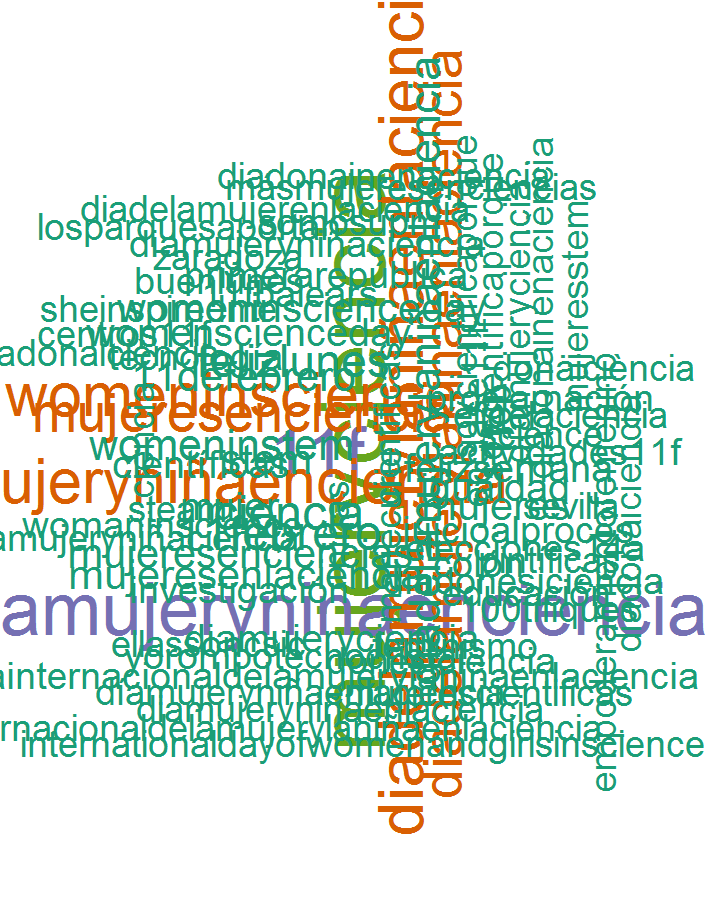
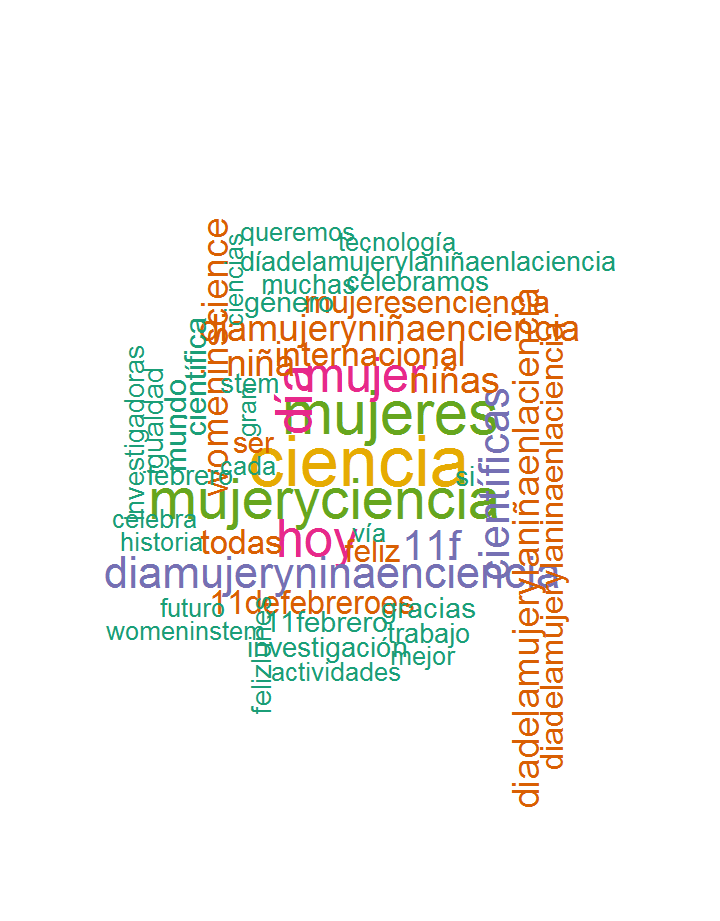
update

diff --git a/index.html b/index.html
@@ -828,6 +828,7 @@ body {
 <img class="mobile-figure" data-mobile-figure-id=fig4 src="index_files/figure-html/unnamed-chunk-1-1.mb.png" />
 <img class="mobile-figure" data-mobile-figure-id=fig5 src="index_files/figure-html/unnamed-chunk-2-1.mb.png" />
 <img class="mobile-figure" data-mobile-figure-id=fig6 src="index_files/figure-html/unnamed-chunk-3-1.mb.png" />
+<img class="mobile-figure" data-mobile-figure-id=fig7 src="index_files/figure-html/unnamed-chunk-4-1.mb.png" />
 <script type="text/javascript">
 
 
@@ -2640,8 +2641,8 @@ window.FlexDashboardComponents.push({
 <div class="knitr-options" data-fig-width="576" data-fig-height="460">
 
 </div>
-<div id="htmlwidget-e8a2676f10c54c699506" style="width:100%;height:460.8px;" class="plotly html-widget"></div>
-<script type="application/json" data-for="htmlwidget-e8a2676f10c54c699506">{"x":{"data":[{"x":[1549033200,1549036800,1549040400,1549044000,1549047600,1549051200,1549054800,1549058400,1549062000,1549065600,1549069200,1549072800,1549076400,1549080000,1549083600,1549087200,1549090800,1549094400,1549098000,1549101600,1549105200,1549108800,1549112400,1549116000,1549119600,1549123200,1549126800,1549130400,1549134000,1549137600,1549141200,1549144800,1549148400,1549152000,1549155600,1549159200,1549162800,1549166400,1549170000,1549173600,1549177200,1549180800,1549184400,1549188000,1549191600,1549195200,1549198800,1549202400,1549206000,1549209600,1549213200,1549216800,1549220400,1549224000,1549227600,1549231200,1549234800,1549238400,1549242000,1549245600,1549249200,1549252800,1549256400,1549260000,1549263600,1549267200,1549270800,1549274400,1549278000,1549281600,1549285200,1549288800,1549292400,1549296000,1549299600,1549303200,1549306800,1549310400,1549314000,1549317600,1549321200,1549324800,1549328400,1549332000,1549335600,1549339200,1549342800,1549346400,1549350000,1549353600,1549357200,1549360800,1549364400,1549368000,1549371600,1549375200,1549378800,1549382400,1549386000,1549389600,1549393200,1549396800,1549400400,1549404000,1549407600,1549411200,1549414800,1549418400,1549422000,1549425600,1549429200,1549432800,1549436400,1549440000,1549443600,1549447200,1549450800,1549454400,1549458000,1549461600,1549465200,1549468800,1549472400,1549476000,1549479600,1549483200,1549486800,1549490400,1549494000,1549497600,1549501200,1549504800,1549508400,1549512000,1549515600,1549519200,1549522800,1549526400,1549530000,1549533600,1549537200,1549540800,1549544400,1549548000,1549551600,1549555200,1549558800,1549562400,1549566000,1549569600,1549573200,1549576800,1549580400,1549584000,1549587600,1549591200,1549594800,1549598400,1549602000,1549605600,1549609200,1549612800,1549616400,1549620000,1549623600,1549627200,1549630800,1549634400,1549638000,1549641600,1549645200,1549648800,1549652400,1549656000,1549659600,1549663200,1549666800,1549670400,1549674000,1549677600,1549681200,1549684800,1549688400,1549692000,1549695600,1549699200,1549702800,1549706400,1549710000,1549713600,1549717200,1549720800,1549724400,1549728000,1549731600,1549735200,1549738800,1549742400,1549746000,1549749600,1549753200,1549756800,1549760400,1549764000,1549767600,1549771200,1549774800,1549778400,1549782000,1549785600,1549789200,1549792800,1549796400,1549800000,1549803600,1549807200,1549810800,1549814400,1549818000,1549821600,1549825200,1549828800,1549832400,1549836000,1549839600,1549843200,1549846800,1549850400,1549854000,1549857600,1549861200,1549864800,1549868400,1549872000,1549875600,1549879200,1549882800,1549886400,1549890000,1549893600,1549897200,1549900800],"y":[2,4,3,2,4,0,2,0,0,1,0,1,0,0,0,0,3,2,1,2,4,1,0,4,1,2,0,1,1,0,0,0,0,1,1,1,0,1,0,1,0,2,9,2,5,1,1,3,1,4,1,2,0,3,0,1,0,1,1,0,0,0,0,2,4,3,4,5,5,4,5,9,7,6,2,4,2,0,5,0,0,0,0,0,0,0,0,2,6,16,12,14,9,4,6,8,9,6,1,5,0,1,7,0,1,0,0,1,2,2,3,4,5,15,28,8,15,7,13,9,6,9,13,10,7,6,2,2,0,1,0,0,0,1,2,2,13,18,16,18,15,8,21,16,15,16,7,10,7,5,3,1,0,0,1,1,1,0,1,7,10,22,18,25,28,25,21,26,20,22,14,7,8,2,2,3,3,0,1,1,0,2,1,3,4,7,25,18,3,6,9,4,6,6,10,4,5,1,0,1,0,0,0,0,0,0,2,2,10,15,13,19,13,6,4,13,17,29,25,29,35,20,30,32,12,8,5,10,9,31,177,551,996,1158,1216,1196,1072,926,945,985,949,179],"text":["time: 2019-02-01 16:00:00<br />n:    2","time: 2019-02-01 17:00:00<br />n:    4","time: 2019-02-01 18:00:00<br />n:    3","time: 2019-02-01 19:00:00<br />n:    2","time: 2019-02-01 20:00:00<br />n:    4","time: 2019-02-01 21:00:00<br />n:    0","time: 2019-02-01 22:00:00<br />n:    2","time: 2019-02-01 23:00:00<br />n:    0","time: 2019-02-02 00:00:00<br />n:    0","time: 2019-02-02 01:00:00<br />n:    1","time: 2019-02-02 02:00:00<br />n:    0","time: 2019-02-02 03:00:00<br />n:    1","time: 2019-02-02 04:00:00<br />n:    0","time: 2019-02-02 05:00:00<br />n:    0","time: 2019-02-02 06:00:00<br />n:    0","time: 2019-02-02 07:00:00<br />n:    0","time: 2019-02-02 08:00:00<br />n:    3","time: 2019-02-02 09:00:00<br />n:    2","time: 2019-02-02 10:00:00<br />n:    1","time: 2019-02-02 11:00:00<br />n:    2","time: 2019-02-02 12:00:00<br />n:    4","time: 2019-02-02 13:00:00<br />n:    1","time: 2019-02-02 14:00:00<br />n:    0","time: 2019-02-02 15:00:00<br />n:    4","time: 2019-02-02 16:00:00<br />n:    1","time: 2019-02-02 17:00:00<br />n:    2","time: 2019-02-02 18:00:00<br />n:    0","time: 2019-02-02 19:00:00<br />n:    1","time: 2019-02-02 20:00:00<br />n:    1","time: 2019-02-02 21:00:00<br />n:    0","time: 2019-02-02 22:00:00<br />n:    0","time: 2019-02-02 23:00:00<br />n:    0","time: 2019-02-03 00:00:00<br />n:    0","time: 2019-02-03 01:00:00<br />n:    1","time: 2019-02-03 02:00:00<br />n:    1","time: 2019-02-03 03:00:00<br />n:    1","time: 2019-02-03 04:00:00<br />n:    0","time: 2019-02-03 05:00:00<br />n:    1","time: 2019-02-03 06:00:00<br />n:    0","time: 2019-02-03 07:00:00<br />n:    1","time: 2019-02-03 08:00:00<br />n:    0","time: 2019-02-03 09:00:00<br />n:    2","time: 2019-02-03 10:00:00<br />n:    9","time: 2019-02-03 11:00:00<br />n:    2","time: 2019-02-03 12:00:00<br />n:    5","time: 2019-02-03 13:00:00<br />n:    1","time: 2019-02-03 14:00:00<br />n:    1","time: 2019-02-03 15:00:00<br />n:    3","time: 2019-02-03 16:00:00<br />n:    1","time: 2019-02-03 17:00:00<br />n:    4","time: 2019-02-03 18:00:00<br />n:    1","time: 2019-02-03 19:00:00<br />n:    2","time: 2019-02-03 20:00:00<br />n:    0","time: 2019-02-03 21:00:00<br />n:    3","time: 2019-02-03 22:00:00<br />n:    0","time: 2019-02-03 23:00:00<br />n:    1","time: 2019-02-04 00:00:00<br />n:    0","time: 2019-02-04 01:00:00<br />n:    1","time: 2019-02-04 02:00:00<br />n:    1","time: 2019-02-04 03:00:00<br />n:    0","time: 2019-02-04 04:00:00<br />n:    0","time: 2019-02-04 05:00:00<br />n:    0","time: 2019-02-04 06:00:00<br />n:    0","time: 2019-02-04 07:00:00<br />n:    2","time: 2019-02-04 08:00:00<br />n:    4","time: 2019-02-04 09:00:00<br />n:    3","time: 2019-02-04 10:00:00<br />n:    4","time: 2019-02-04 11:00:00<br />n:    5","time: 2019-02-04 12:00:00<br />n:    5","time: 2019-02-04 13:00:00<br />n:    4","time: 2019-02-04 14:00:00<br />n:    5","time: 2019-02-04 15:00:00<br />n:    9","time: 2019-02-04 16:00:00<br />n:    7","time: 2019-02-04 17:00:00<br />n:    6","time: 2019-02-04 18:00:00<br />n:    2","time: 2019-02-04 19:00:00<br />n:    4","time: 2019-02-04 20:00:00<br />n:    2","time: 2019-02-04 21:00:00<br />n:    0","time: 2019-02-04 22:00:00<br />n:    5","time: 2019-02-04 23:00:00<br />n:    0","time: 2019-02-05 00:00:00<br />n:    0","time: 2019-02-05 01:00:00<br />n:    0","time: 2019-02-05 02:00:00<br />n:    0","time: 2019-02-05 03:00:00<br />n:    0","time: 2019-02-05 04:00:00<br />n:    0","time: 2019-02-05 05:00:00<br />n:    0","time: 2019-02-05 06:00:00<br />n:    0","time: 2019-02-05 07:00:00<br />n:    2","time: 2019-02-05 08:00:00<br />n:    6","time: 2019-02-05 09:00:00<br />n:   16","time: 2019-02-05 10:00:00<br />n:   12","time: 2019-02-05 11:00:00<br />n:   14","time: 2019-02-05 12:00:00<br />n:    9","time: 2019-02-05 13:00:00<br />n:    4","time: 2019-02-05 14:00:00<br />n:    6","time: 2019-02-05 15:00:00<br />n:    8","time: 2019-02-05 16:00:00<br />n:    9","time: 2019-02-05 17:00:00<br />n:    6","time: 2019-02-05 18:00:00<br />n:    1","time: 2019-02-05 19:00:00<br />n:    5","time: 2019-02-05 20:00:00<br />n:    0","time: 2019-02-05 21:00:00<br />n:    1","time: 2019-02-05 22:00:00<br />n:    7","time: 2019-02-05 23:00:00<br />n:    0","time: 2019-02-06 00:00:00<br />n:    1","time: 2019-02-06 01:00:00<br />n:    0","time: 2019-02-06 02:00:00<br />n:    0","time: 2019-02-06 03:00:00<br />n:    1","time: 2019-02-06 04:00:00<br />n:    2","time: 2019-02-06 05:00:00<br />n:    2","time: 2019-02-06 06:00:00<br />n:    3","time: 2019-02-06 07:00:00<br />n:    4","time: 2019-02-06 08:00:00<br />n:    5","time: 2019-02-06 09:00:00<br />n:   15","time: 2019-02-06 10:00:00<br />n:   28","time: 2019-02-06 11:00:00<br />n:    8","time: 2019-02-06 12:00:00<br />n:   15","time: 2019-02-06 13:00:00<br />n:    7","time: 2019-02-06 14:00:00<br />n:   13","time: 2019-02-06 15:00:00<br />n:    9","time: 2019-02-06 16:00:00<br />n:    6","time: 2019-02-06 17:00:00<br />n:    9","time: 2019-02-06 18:00:00<br />n:   13","time: 2019-02-06 19:00:00<br />n:   10","time: 2019-02-06 20:00:00<br />n:    7","time: 2019-02-06 21:00:00<br />n:    6","time: 2019-02-06 22:00:00<br />n:    2","time: 2019-02-06 23:00:00<br />n:    2","time: 2019-02-07 00:00:00<br />n:    0","time: 2019-02-07 01:00:00<br />n:    1","time: 2019-02-07 02:00:00<br />n:    0","time: 2019-02-07 03:00:00<br />n:    0","time: 2019-02-07 04:00:00<br />n:    0","time: 2019-02-07 05:00:00<br />n:    1","time: 2019-02-07 06:00:00<br />n:    2","time: 2019-02-07 07:00:00<br />n:    2","time: 2019-02-07 08:00:00<br />n:   13","time: 2019-02-07 09:00:00<br />n:   18","time: 2019-02-07 10:00:00<br />n:   16","time: 2019-02-07 11:00:00<br />n:   18","time: 2019-02-07 12:00:00<br />n:   15","time: 2019-02-07 13:00:00<br />n:    8","time: 2019-02-07 14:00:00<br />n:   21","time: 2019-02-07 15:00:00<br />n:   16","time: 2019-02-07 16:00:00<br />n:   15","time: 2019-02-07 17:00:00<br />n:   16","time: 2019-02-07 18:00:00<br />n:    7","time: 2019-02-07 19:00:00<br />n:   10","time: 2019-02-07 20:00:00<br />n:    7","time: 2019-02-07 21:00:00<br />n:    5","time: 2019-02-07 22:00:00<br />n:    3","time: 2019-02-07 23:00:00<br />n:    1","time: 2019-02-08 00:00:00<br />n:    0","time: 2019-02-08 01:00:00<br />n:    0","time: 2019-02-08 02:00:00<br />n:    1","time: 2019-02-08 03:00:00<br />n:    1","time: 2019-02-08 04:00:00<br />n:    1","time: 2019-02-08 05:00:00<br />n:    0","time: 2019-02-08 06:00:00<br />n:    1","time: 2019-02-08 07:00:00<br />n:    7","time: 2019-02-08 08:00:00<br />n:   10","time: 2019-02-08 09:00:00<br />n:   22","time: 2019-02-08 10:00:00<br />n:   18","time: 2019-02-08 11:00:00<br />n:   25","time: 2019-02-08 12:00:00<br />n:   28","time: 2019-02-08 13:00:00<br />n:   25","time: 2019-02-08 14:00:00<br />n:   21","time: 2019-02-08 15:00:00<br />n:   26","time: 2019-02-08 16:00:00<br />n:   20","time: 2019-02-08 17:00:00<br />n:   22","time: 2019-02-08 18:00:00<br />n:   14","time: 2019-02-08 19:00:00<br />n:    7","time: 2019-02-08 20:00:00<br />n:    8","time: 2019-02-08 21:00:00<br />n:    2","time: 2019-02-08 22:00:00<br />n:    2","time: 2019-02-08 23:00:00<br />n:    3","time: 2019-02-09 00:00:00<br />n:    3","time: 2019-02-09 01:00:00<br />n:    0","time: 2019-02-09 02:00:00<br />n:    1","time: 2019-02-09 03:00:00<br />n:    1","time: 2019-02-09 04:00:00<br />n:    0","time: 2019-02-09 05:00:00<br />n:    2","time: 2019-02-09 06:00:00<br />n:    1","time: 2019-02-09 07:00:00<br />n:    3","time: 2019-02-09 08:00:00<br />n:    4","time: 2019-02-09 09:00:00<br />n:    7","time: 2019-02-09 10:00:00<br />n:   25","time: 2019-02-09 11:00:00<br />n:   18","time: 2019-02-09 12:00:00<br />n:    3","time: 2019-02-09 13:00:00<br />n:    6","time: 2019-02-09 14:00:00<br />n:    9","time: 2019-02-09 15:00:00<br />n:    4","time: 2019-02-09 16:00:00<br />n:    6","time: 2019-02-09 17:00:00<br />n:    6","time: 2019-02-09 18:00:00<br />n:   10","time: 2019-02-09 19:00:00<br />n:    4","time: 2019-02-09 20:00:00<br />n:    5","time: 2019-02-09 21:00:00<br />n:    1","time: 2019-02-09 22:00:00<br />n:    0","time: 2019-02-09 23:00:00<br />n:    1","time: 2019-02-10 00:00:00<br />n:    0","time: 2019-02-10 01:00:00<br />n:    0","time: 2019-02-10 02:00:00<br />n:    0","time: 2019-02-10 03:00:00<br />n:    0","time: 2019-02-10 04:00:00<br />n:    0","time: 2019-02-10 05:00:00<br />n:    0","time: 2019-02-10 06:00:00<br />n:    2","time: 2019-02-10 07:00:00<br />n:    2","time: 2019-02-10 08:00:00<br />n:   10","time: 2019-02-10 09:00:00<br />n:   15","time: 2019-02-10 10:00:00<br />n:   13","time: 2019-02-10 11:00:00<br />n:   19","time: 2019-02-10 12:00:00<br />n:   13","time: 2019-02-10 13:00:00<br />n:    6","time: 2019-02-10 14:00:00<br />n:    4","time: 2019-02-10 15:00:00<br />n:   13","time: 2019-02-10 16:00:00<br />n:   17","time: 2019-02-10 17:00:00<br />n:   29","time: 2019-02-10 18:00:00<br />n:   25","time: 2019-02-10 19:00:00<br />n:   29","time: 2019-02-10 20:00:00<br />n:   35","time: 2019-02-10 21:00:00<br />n:   20","time: 2019-02-10 22:00:00<br />n:   30","time: 2019-02-10 23:00:00<br />n:   32","time: 2019-02-11 00:00:00<br />n:   12","time: 2019-02-11 01:00:00<br />n:    8","time: 2019-02-11 02:00:00<br />n:    5","time: 2019-02-11 03:00:00<br />n:   10","time: 2019-02-11 04:00:00<br />n:    9","time: 2019-02-11 05:00:00<br />n:   31","time: 2019-02-11 06:00:00<br />n:  177","time: 2019-02-11 07:00:00<br />n:  551","time: 2019-02-11 08:00:00<br />n:  996","time: 2019-02-11 09:00:00<br />n: 1158","time: 2019-02-11 10:00:00<br />n: 1216","time: 2019-02-11 11:00:00<br />n: 1196","time: 2019-02-11 12:00:00<br />n: 1072","time: 2019-02-11 13:00:00<br />n:  926","time: 2019-02-11 14:00:00<br />n:  945","time: 2019-02-11 15:00:00<br />n:  985","time: 2019-02-11 16:00:00<br />n:  949","time: 2019-02-11 17:00:00<br />n:  179"],"type":"scatter","mode":"lines","line":{"width":1.88976377952756,"color":"rgba(0,0,0,1)","dash":"solid"},"hoveron":"points","showlegend":false,"xaxis":"x","yaxis":"y","hoverinfo":"text","frame":null}],"layout":{"margin":{"t":49.9259568525544,"r":9.29846409298464,"b":31.136417624659,"l":62.2997094229971},"font":{"color":"rgba(0,0,0,1)","family":"","size":18.5969281859693},"title":"<b> #11F2019 tweets per hour <\/b>","titlefont":{"color":"rgba(0,0,0,1)","family":"","size":22.3163138231631},"xaxis":{"domain":[0,1],"automargin":true,"type":"linear","autorange":false,"range":[1548989820,1549944180],"tickmode":"array","ticktext":["Feb 03","Feb 05","Feb 07","Feb 09","Feb 11"],"tickvals":[1549148400,1549321200,1549494000,1549666800,1549839600],"categoryorder":"array","categoryarray":["Feb 03","Feb 05","Feb 07","Feb 09","Feb 11"],"nticks":null,"ticks":"","tickcolor":null,"ticklen":4.64923204649232,"tickwidth":0,"showticklabels":true,"tickfont":{"color":"rgba(77,77,77,1)","family":"","size":14.8775425487754},"tickangle":-0,"showline":false,"linecolor":null,"linewidth":0,"showgrid":true,"gridcolor":"rgba(235,235,235,1)","gridwidth":0.845314917544058,"zeroline":false,"anchor":"y","title":"","titlefont":{"color":"rgba(0,0,0,1)","family":"","size":18.5969281859693},"hoverformat":".2f"},"yaxis":{"domain":[0,1],"automargin":true,"type":"linear","autorange":false,"range":[-60.8,1276.8],"tickmode":"array","ticktext":["0","250","500","750","1000","1250"],"tickvals":[0,250,500,750,1000,1250],"categoryorder":"array","categoryarray":["0","250","500","750","1000","1250"],"nticks":null,"ticks":"","tickcolor":null,"ticklen":4.64923204649232,"tickwidth":0,"showticklabels":true,"tickfont":{"color":"rgba(77,77,77,1)","family":"","size":14.8775425487754},"tickangle":-0,"showline":false,"linecolor":null,"linewidth":0,"showgrid":true,"gridcolor":"rgba(235,235,235,1)","gridwidth":0.845314917544058,"zeroline":false,"anchor":"x","title":"Number of tweets","titlefont":{"color":"rgba(0,0,0,1)","family":"","size":18.5969281859693},"hoverformat":".2f"},"shapes":[{"type":"rect","fillcolor":null,"line":{"color":null,"width":0,"linetype":[]},"yref":"paper","xref":"paper","x0":0,"x1":1,"y0":0,"y1":1}],"showlegend":false,"legend":{"bgcolor":null,"bordercolor":null,"borderwidth":0,"font":{"color":"rgba(0,0,0,1)","family":"","size":14.8775425487754}},"hovermode":"closest","barmode":"relative"},"config":{"doubleClick":"reset","modeBarButtonsToAdd":[{"name":"Collaborate","icon":{"width":1000,"ascent":500,"descent":-50,"path":"M487 375c7-10 9-23 5-36l-79-259c-3-12-11-23-22-31-11-8-22-12-35-12l-263 0c-15 0-29 5-43 15-13 10-23 23-28 37-5 13-5 25-1 37 0 0 0 3 1 7 1 5 1 8 1 11 0 2 0 4-1 6 0 3-1 5-1 6 1 2 2 4 3 6 1 2 2 4 4 6 2 3 4 5 5 7 5 7 9 16 13 26 4 10 7 19 9 26 0 2 0 5 0 9-1 4-1 6 0 8 0 2 2 5 4 8 3 3 5 5 5 7 4 6 8 15 12 26 4 11 7 19 7 26 1 1 0 4 0 9-1 4-1 7 0 8 1 2 3 5 6 8 4 4 6 6 6 7 4 5 8 13 13 24 4 11 7 20 7 28 1 1 0 4 0 7-1 3-1 6-1 7 0 2 1 4 3 6 1 1 3 4 5 6 2 3 3 5 5 6 1 2 3 5 4 9 2 3 3 7 5 10 1 3 2 6 4 10 2 4 4 7 6 9 2 3 4 5 7 7 3 2 7 3 11 3 3 0 8 0 13-1l0-1c7 2 12 2 14 2l218 0c14 0 25-5 32-16 8-10 10-23 6-37l-79-259c-7-22-13-37-20-43-7-7-19-10-37-10l-248 0c-5 0-9-2-11-5-2-3-2-7 0-12 4-13 18-20 41-20l264 0c5 0 10 2 16 5 5 3 8 6 10 11l85 282c2 5 2 10 2 17 7-3 13-7 17-13z m-304 0c-1-3-1-5 0-7 1-1 3-2 6-2l174 0c2 0 4 1 7 2 2 2 4 4 5 7l6 18c0 3 0 5-1 7-1 1-3 2-6 2l-173 0c-3 0-5-1-8-2-2-2-4-4-4-7z m-24-73c-1-3-1-5 0-7 2-2 3-2 6-2l174 0c2 0 5 0 7 2 3 2 4 4 5 7l6 18c1 2 0 5-1 6-1 2-3 3-5 3l-174 0c-3 0-5-1-7-3-3-1-4-4-5-6z"},"click":"function(gd) { \n        // is this being viewed in RStudio?\n        if (location.search == '?viewer_pane=1') {\n          alert('To learn about plotly for collaboration, visit:\\n https://cpsievert.github.io/plotly_book/plot-ly-for-collaboration.html');\n        } else {\n          window.open('https://cpsievert.github.io/plotly_book/plot-ly-for-collaboration.html', '_blank');\n        }\n      }"}],"cloud":false},"source":"A","attrs":{"1d9058ee6451":{"x":{},"y":{},"type":"scatter"}},"cur_data":"1d9058ee6451","visdat":{"1d9058ee6451":["function (y) ","x"]},"highlight":{"on":"plotly_click","persistent":false,"dynamic":false,"selectize":false,"opacityDim":0.2,"selected":{"opacity":1},"debounce":0},"base_url":"https://plot.ly"},"evals":["config.modeBarButtonsToAdd.0.click"],"jsHooks":[]}</script>
+<div id="htmlwidget-163d0e92aeda6969226b" style="width:100%;height:460.8px;" class="plotly html-widget"></div>
+<script type="application/json" data-for="htmlwidget-163d0e92aeda6969226b">{"x":{"data":[{"x":[1549033200,1549036800,1549040400,1549044000,1549047600,1549051200,1549054800,1549058400,1549062000,1549065600,1549069200,1549072800,1549076400,1549080000,1549083600,1549087200,1549090800,1549094400,1549098000,1549101600,1549105200,1549108800,1549112400,1549116000,1549119600,1549123200,1549126800,1549130400,1549134000,1549137600,1549141200,1549144800,1549148400,1549152000,1549155600,1549159200,1549162800,1549166400,1549170000,1549173600,1549177200,1549180800,1549184400,1549188000,1549191600,1549195200,1549198800,1549202400,1549206000,1549209600,1549213200,1549216800,1549220400,1549224000,1549227600,1549231200,1549234800,1549238400,1549242000,1549245600,1549249200,1549252800,1549256400,1549260000,1549263600,1549267200,1549270800,1549274400,1549278000,1549281600,1549285200,1549288800,1549292400,1549296000,1549299600,1549303200,1549306800,1549310400,1549314000,1549317600,1549321200,1549324800,1549328400,1549332000,1549335600,1549339200,1549342800,1549346400,1549350000,1549353600,1549357200,1549360800,1549364400,1549368000,1549371600,1549375200,1549378800,1549382400,1549386000,1549389600,1549393200,1549396800,1549400400,1549404000,1549407600,1549411200,1549414800,1549418400,1549422000,1549425600,1549429200,1549432800,1549436400,1549440000,1549443600,1549447200,1549450800,1549454400,1549458000,1549461600,1549465200,1549468800,1549472400,1549476000,1549479600,1549483200,1549486800,1549490400,1549494000,1549497600,1549501200,1549504800,1549508400,1549512000,1549515600,1549519200,1549522800,1549526400,1549530000,1549533600,1549537200,1549540800,1549544400,1549548000,1549551600,1549555200,1549558800,1549562400,1549566000,1549569600,1549573200,1549576800,1549580400,1549584000,1549587600,1549591200,1549594800,1549598400,1549602000,1549605600,1549609200,1549612800,1549616400,1549620000,1549623600,1549627200,1549630800,1549634400,1549638000,1549641600,1549645200,1549648800,1549652400,1549656000,1549659600,1549663200,1549666800,1549670400,1549674000,1549677600,1549681200,1549684800,1549688400,1549692000,1549695600,1549699200,1549702800,1549706400,1549710000,1549713600,1549717200,1549720800,1549724400,1549728000,1549731600,1549735200,1549738800,1549742400,1549746000,1549749600,1549753200,1549756800,1549760400,1549764000,1549767600,1549771200,1549774800,1549778400,1549782000,1549785600,1549789200,1549792800,1549796400,1549800000,1549803600,1549807200,1549810800,1549814400,1549818000,1549821600,1549825200,1549828800,1549832400,1549836000,1549839600,1549843200,1549846800,1549850400,1549854000,1549857600,1549861200,1549864800,1549868400,1549872000,1549875600,1549879200,1549882800,1549886400,1549890000,1549893600,1549897200,1549900800],"y":[2,4,3,2,4,0,2,0,0,1,0,1,0,0,0,0,3,2,1,2,4,1,0,4,1,2,0,1,1,0,0,0,0,1,1,1,0,1,0,1,0,2,9,2,5,1,1,3,1,4,1,2,0,3,0,1,0,1,1,0,0,0,0,2,4,3,4,5,5,4,5,9,7,6,2,4,2,0,5,0,0,0,0,0,0,0,0,2,6,16,12,14,9,4,6,8,9,6,1,5,0,1,7,0,1,0,0,1,2,2,3,4,5,15,28,8,15,7,13,9,6,9,13,10,7,6,2,2,0,1,0,0,0,1,2,2,13,18,16,18,15,8,21,16,15,16,7,10,7,5,3,1,0,0,1,1,1,0,1,7,10,22,18,25,28,25,21,26,20,22,14,7,8,2,2,3,3,0,1,1,0,2,1,3,4,7,25,18,3,6,9,4,6,6,10,4,5,1,0,1,0,0,0,0,0,0,2,2,10,15,13,19,13,6,4,13,17,29,25,29,35,20,30,32,12,8,5,10,9,31,177,551,996,1158,1216,1196,1072,926,945,985,949,179],"text":["time: 2019-02-01 16:00:00<br />n:    2","time: 2019-02-01 17:00:00<br />n:    4","time: 2019-02-01 18:00:00<br />n:    3","time: 2019-02-01 19:00:00<br />n:    2","time: 2019-02-01 20:00:00<br />n:    4","time: 2019-02-01 21:00:00<br />n:    0","time: 2019-02-01 22:00:00<br />n:    2","time: 2019-02-01 23:00:00<br />n:    0","time: 2019-02-02 00:00:00<br />n:    0","time: 2019-02-02 01:00:00<br />n:    1","time: 2019-02-02 02:00:00<br />n:    0","time: 2019-02-02 03:00:00<br />n:    1","time: 2019-02-02 04:00:00<br />n:    0","time: 2019-02-02 05:00:00<br />n:    0","time: 2019-02-02 06:00:00<br />n:    0","time: 2019-02-02 07:00:00<br />n:    0","time: 2019-02-02 08:00:00<br />n:    3","time: 2019-02-02 09:00:00<br />n:    2","time: 2019-02-02 10:00:00<br />n:    1","time: 2019-02-02 11:00:00<br />n:    2","time: 2019-02-02 12:00:00<br />n:    4","time: 2019-02-02 13:00:00<br />n:    1","time: 2019-02-02 14:00:00<br />n:    0","time: 2019-02-02 15:00:00<br />n:    4","time: 2019-02-02 16:00:00<br />n:    1","time: 2019-02-02 17:00:00<br />n:    2","time: 2019-02-02 18:00:00<br />n:    0","time: 2019-02-02 19:00:00<br />n:    1","time: 2019-02-02 20:00:00<br />n:    1","time: 2019-02-02 21:00:00<br />n:    0","time: 2019-02-02 22:00:00<br />n:    0","time: 2019-02-02 23:00:00<br />n:    0","time: 2019-02-03 00:00:00<br />n:    0","time: 2019-02-03 01:00:00<br />n:    1","time: 2019-02-03 02:00:00<br />n:    1","time: 2019-02-03 03:00:00<br />n:    1","time: 2019-02-03 04:00:00<br />n:    0","time: 2019-02-03 05:00:00<br />n:    1","time: 2019-02-03 06:00:00<br />n:    0","time: 2019-02-03 07:00:00<br />n:    1","time: 2019-02-03 08:00:00<br />n:    0","time: 2019-02-03 09:00:00<br />n:    2","time: 2019-02-03 10:00:00<br />n:    9","time: 2019-02-03 11:00:00<br />n:    2","time: 2019-02-03 12:00:00<br />n:    5","time: 2019-02-03 13:00:00<br />n:    1","time: 2019-02-03 14:00:00<br />n:    1","time: 2019-02-03 15:00:00<br />n:    3","time: 2019-02-03 16:00:00<br />n:    1","time: 2019-02-03 17:00:00<br />n:    4","time: 2019-02-03 18:00:00<br />n:    1","time: 2019-02-03 19:00:00<br />n:    2","time: 2019-02-03 20:00:00<br />n:    0","time: 2019-02-03 21:00:00<br />n:    3","time: 2019-02-03 22:00:00<br />n:    0","time: 2019-02-03 23:00:00<br />n:    1","time: 2019-02-04 00:00:00<br />n:    0","time: 2019-02-04 01:00:00<br />n:    1","time: 2019-02-04 02:00:00<br />n:    1","time: 2019-02-04 03:00:00<br />n:    0","time: 2019-02-04 04:00:00<br />n:    0","time: 2019-02-04 05:00:00<br />n:    0","time: 2019-02-04 06:00:00<br />n:    0","time: 2019-02-04 07:00:00<br />n:    2","time: 2019-02-04 08:00:00<br />n:    4","time: 2019-02-04 09:00:00<br />n:    3","time: 2019-02-04 10:00:00<br />n:    4","time: 2019-02-04 11:00:00<br />n:    5","time: 2019-02-04 12:00:00<br />n:    5","time: 2019-02-04 13:00:00<br />n:    4","time: 2019-02-04 14:00:00<br />n:    5","time: 2019-02-04 15:00:00<br />n:    9","time: 2019-02-04 16:00:00<br />n:    7","time: 2019-02-04 17:00:00<br />n:    6","time: 2019-02-04 18:00:00<br />n:    2","time: 2019-02-04 19:00:00<br />n:    4","time: 2019-02-04 20:00:00<br />n:    2","time: 2019-02-04 21:00:00<br />n:    0","time: 2019-02-04 22:00:00<br />n:    5","time: 2019-02-04 23:00:00<br />n:    0","time: 2019-02-05 00:00:00<br />n:    0","time: 2019-02-05 01:00:00<br />n:    0","time: 2019-02-05 02:00:00<br />n:    0","time: 2019-02-05 03:00:00<br />n:    0","time: 2019-02-05 04:00:00<br />n:    0","time: 2019-02-05 05:00:00<br />n:    0","time: 2019-02-05 06:00:00<br />n:    0","time: 2019-02-05 07:00:00<br />n:    2","time: 2019-02-05 08:00:00<br />n:    6","time: 2019-02-05 09:00:00<br />n:   16","time: 2019-02-05 10:00:00<br />n:   12","time: 2019-02-05 11:00:00<br />n:   14","time: 2019-02-05 12:00:00<br />n:    9","time: 2019-02-05 13:00:00<br />n:    4","time: 2019-02-05 14:00:00<br />n:    6","time: 2019-02-05 15:00:00<br />n:    8","time: 2019-02-05 16:00:00<br />n:    9","time: 2019-02-05 17:00:00<br />n:    6","time: 2019-02-05 18:00:00<br />n:    1","time: 2019-02-05 19:00:00<br />n:    5","time: 2019-02-05 20:00:00<br />n:    0","time: 2019-02-05 21:00:00<br />n:    1","time: 2019-02-05 22:00:00<br />n:    7","time: 2019-02-05 23:00:00<br />n:    0","time: 2019-02-06 00:00:00<br />n:    1","time: 2019-02-06 01:00:00<br />n:    0","time: 2019-02-06 02:00:00<br />n:    0","time: 2019-02-06 03:00:00<br />n:    1","time: 2019-02-06 04:00:00<br />n:    2","time: 2019-02-06 05:00:00<br />n:    2","time: 2019-02-06 06:00:00<br />n:    3","time: 2019-02-06 07:00:00<br />n:    4","time: 2019-02-06 08:00:00<br />n:    5","time: 2019-02-06 09:00:00<br />n:   15","time: 2019-02-06 10:00:00<br />n:   28","time: 2019-02-06 11:00:00<br />n:    8","time: 2019-02-06 12:00:00<br />n:   15","time: 2019-02-06 13:00:00<br />n:    7","time: 2019-02-06 14:00:00<br />n:   13","time: 2019-02-06 15:00:00<br />n:    9","time: 2019-02-06 16:00:00<br />n:    6","time: 2019-02-06 17:00:00<br />n:    9","time: 2019-02-06 18:00:00<br />n:   13","time: 2019-02-06 19:00:00<br />n:   10","time: 2019-02-06 20:00:00<br />n:    7","time: 2019-02-06 21:00:00<br />n:    6","time: 2019-02-06 22:00:00<br />n:    2","time: 2019-02-06 23:00:00<br />n:    2","time: 2019-02-07 00:00:00<br />n:    0","time: 2019-02-07 01:00:00<br />n:    1","time: 2019-02-07 02:00:00<br />n:    0","time: 2019-02-07 03:00:00<br />n:    0","time: 2019-02-07 04:00:00<br />n:    0","time: 2019-02-07 05:00:00<br />n:    1","time: 2019-02-07 06:00:00<br />n:    2","time: 2019-02-07 07:00:00<br />n:    2","time: 2019-02-07 08:00:00<br />n:   13","time: 2019-02-07 09:00:00<br />n:   18","time: 2019-02-07 10:00:00<br />n:   16","time: 2019-02-07 11:00:00<br />n:   18","time: 2019-02-07 12:00:00<br />n:   15","time: 2019-02-07 13:00:00<br />n:    8","time: 2019-02-07 14:00:00<br />n:   21","time: 2019-02-07 15:00:00<br />n:   16","time: 2019-02-07 16:00:00<br />n:   15","time: 2019-02-07 17:00:00<br />n:   16","time: 2019-02-07 18:00:00<br />n:    7","time: 2019-02-07 19:00:00<br />n:   10","time: 2019-02-07 20:00:00<br />n:    7","time: 2019-02-07 21:00:00<br />n:    5","time: 2019-02-07 22:00:00<br />n:    3","time: 2019-02-07 23:00:00<br />n:    1","time: 2019-02-08 00:00:00<br />n:    0","time: 2019-02-08 01:00:00<br />n:    0","time: 2019-02-08 02:00:00<br />n:    1","time: 2019-02-08 03:00:00<br />n:    1","time: 2019-02-08 04:00:00<br />n:    1","time: 2019-02-08 05:00:00<br />n:    0","time: 2019-02-08 06:00:00<br />n:    1","time: 2019-02-08 07:00:00<br />n:    7","time: 2019-02-08 08:00:00<br />n:   10","time: 2019-02-08 09:00:00<br />n:   22","time: 2019-02-08 10:00:00<br />n:   18","time: 2019-02-08 11:00:00<br />n:   25","time: 2019-02-08 12:00:00<br />n:   28","time: 2019-02-08 13:00:00<br />n:   25","time: 2019-02-08 14:00:00<br />n:   21","time: 2019-02-08 15:00:00<br />n:   26","time: 2019-02-08 16:00:00<br />n:   20","time: 2019-02-08 17:00:00<br />n:   22","time: 2019-02-08 18:00:00<br />n:   14","time: 2019-02-08 19:00:00<br />n:    7","time: 2019-02-08 20:00:00<br />n:    8","time: 2019-02-08 21:00:00<br />n:    2","time: 2019-02-08 22:00:00<br />n:    2","time: 2019-02-08 23:00:00<br />n:    3","time: 2019-02-09 00:00:00<br />n:    3","time: 2019-02-09 01:00:00<br />n:    0","time: 2019-02-09 02:00:00<br />n:    1","time: 2019-02-09 03:00:00<br />n:    1","time: 2019-02-09 04:00:00<br />n:    0","time: 2019-02-09 05:00:00<br />n:    2","time: 2019-02-09 06:00:00<br />n:    1","time: 2019-02-09 07:00:00<br />n:    3","time: 2019-02-09 08:00:00<br />n:    4","time: 2019-02-09 09:00:00<br />n:    7","time: 2019-02-09 10:00:00<br />n:   25","time: 2019-02-09 11:00:00<br />n:   18","time: 2019-02-09 12:00:00<br />n:    3","time: 2019-02-09 13:00:00<br />n:    6","time: 2019-02-09 14:00:00<br />n:    9","time: 2019-02-09 15:00:00<br />n:    4","time: 2019-02-09 16:00:00<br />n:    6","time: 2019-02-09 17:00:00<br />n:    6","time: 2019-02-09 18:00:00<br />n:   10","time: 2019-02-09 19:00:00<br />n:    4","time: 2019-02-09 20:00:00<br />n:    5","time: 2019-02-09 21:00:00<br />n:    1","time: 2019-02-09 22:00:00<br />n:    0","time: 2019-02-09 23:00:00<br />n:    1","time: 2019-02-10 00:00:00<br />n:    0","time: 2019-02-10 01:00:00<br />n:    0","time: 2019-02-10 02:00:00<br />n:    0","time: 2019-02-10 03:00:00<br />n:    0","time: 2019-02-10 04:00:00<br />n:    0","time: 2019-02-10 05:00:00<br />n:    0","time: 2019-02-10 06:00:00<br />n:    2","time: 2019-02-10 07:00:00<br />n:    2","time: 2019-02-10 08:00:00<br />n:   10","time: 2019-02-10 09:00:00<br />n:   15","time: 2019-02-10 10:00:00<br />n:   13","time: 2019-02-10 11:00:00<br />n:   19","time: 2019-02-10 12:00:00<br />n:   13","time: 2019-02-10 13:00:00<br />n:    6","time: 2019-02-10 14:00:00<br />n:    4","time: 2019-02-10 15:00:00<br />n:   13","time: 2019-02-10 16:00:00<br />n:   17","time: 2019-02-10 17:00:00<br />n:   29","time: 2019-02-10 18:00:00<br />n:   25","time: 2019-02-10 19:00:00<br />n:   29","time: 2019-02-10 20:00:00<br />n:   35","time: 2019-02-10 21:00:00<br />n:   20","time: 2019-02-10 22:00:00<br />n:   30","time: 2019-02-10 23:00:00<br />n:   32","time: 2019-02-11 00:00:00<br />n:   12","time: 2019-02-11 01:00:00<br />n:    8","time: 2019-02-11 02:00:00<br />n:    5","time: 2019-02-11 03:00:00<br />n:   10","time: 2019-02-11 04:00:00<br />n:    9","time: 2019-02-11 05:00:00<br />n:   31","time: 2019-02-11 06:00:00<br />n:  177","time: 2019-02-11 07:00:00<br />n:  551","time: 2019-02-11 08:00:00<br />n:  996","time: 2019-02-11 09:00:00<br />n: 1158","time: 2019-02-11 10:00:00<br />n: 1216","time: 2019-02-11 11:00:00<br />n: 1196","time: 2019-02-11 12:00:00<br />n: 1072","time: 2019-02-11 13:00:00<br />n:  926","time: 2019-02-11 14:00:00<br />n:  945","time: 2019-02-11 15:00:00<br />n:  985","time: 2019-02-11 16:00:00<br />n:  949","time: 2019-02-11 17:00:00<br />n:  179"],"type":"scatter","mode":"lines","line":{"width":1.88976377952756,"color":"rgba(0,0,0,1)","dash":"solid"},"hoveron":"points","showlegend":false,"xaxis":"x","yaxis":"y","hoverinfo":"text","frame":null}],"layout":{"margin":{"t":49.9259568525544,"r":9.29846409298464,"b":31.136417624659,"l":62.2997094229971},"font":{"color":"rgba(0,0,0,1)","family":"","size":18.5969281859693},"title":"<b> #11F2019 tweets per hour <\/b>","titlefont":{"color":"rgba(0,0,0,1)","family":"","size":22.3163138231631},"xaxis":{"domain":[0,1],"automargin":true,"type":"linear","autorange":false,"range":[1548989820,1549944180],"tickmode":"array","ticktext":["Feb 03","Feb 05","Feb 07","Feb 09","Feb 11"],"tickvals":[1549148400,1549321200,1549494000,1549666800,1549839600],"categoryorder":"array","categoryarray":["Feb 03","Feb 05","Feb 07","Feb 09","Feb 11"],"nticks":null,"ticks":"","tickcolor":null,"ticklen":4.64923204649232,"tickwidth":0,"showticklabels":true,"tickfont":{"color":"rgba(77,77,77,1)","family":"","size":14.8775425487754},"tickangle":-0,"showline":false,"linecolor":null,"linewidth":0,"showgrid":true,"gridcolor":"rgba(235,235,235,1)","gridwidth":0.845314917544058,"zeroline":false,"anchor":"y","title":"","titlefont":{"color":"rgba(0,0,0,1)","family":"","size":18.5969281859693},"hoverformat":".2f"},"yaxis":{"domain":[0,1],"automargin":true,"type":"linear","autorange":false,"range":[-60.8,1276.8],"tickmode":"array","ticktext":["0","250","500","750","1000","1250"],"tickvals":[0,250,500,750,1000,1250],"categoryorder":"array","categoryarray":["0","250","500","750","1000","1250"],"nticks":null,"ticks":"","tickcolor":null,"ticklen":4.64923204649232,"tickwidth":0,"showticklabels":true,"tickfont":{"color":"rgba(77,77,77,1)","family":"","size":14.8775425487754},"tickangle":-0,"showline":false,"linecolor":null,"linewidth":0,"showgrid":true,"gridcolor":"rgba(235,235,235,1)","gridwidth":0.845314917544058,"zeroline":false,"anchor":"x","title":"Number of tweets","titlefont":{"color":"rgba(0,0,0,1)","family":"","size":18.5969281859693},"hoverformat":".2f"},"shapes":[{"type":"rect","fillcolor":null,"line":{"color":null,"width":0,"linetype":[]},"yref":"paper","xref":"paper","x0":0,"x1":1,"y0":0,"y1":1}],"showlegend":false,"legend":{"bgcolor":null,"bordercolor":null,"borderwidth":0,"font":{"color":"rgba(0,0,0,1)","family":"","size":14.8775425487754}},"hovermode":"closest","barmode":"relative"},"config":{"doubleClick":"reset","modeBarButtonsToAdd":[{"name":"Collaborate","icon":{"width":1000,"ascent":500,"descent":-50,"path":"M487 375c7-10 9-23 5-36l-79-259c-3-12-11-23-22-31-11-8-22-12-35-12l-263 0c-15 0-29 5-43 15-13 10-23 23-28 37-5 13-5 25-1 37 0 0 0 3 1 7 1 5 1 8 1 11 0 2 0 4-1 6 0 3-1 5-1 6 1 2 2 4 3 6 1 2 2 4 4 6 2 3 4 5 5 7 5 7 9 16 13 26 4 10 7 19 9 26 0 2 0 5 0 9-1 4-1 6 0 8 0 2 2 5 4 8 3 3 5 5 5 7 4 6 8 15 12 26 4 11 7 19 7 26 1 1 0 4 0 9-1 4-1 7 0 8 1 2 3 5 6 8 4 4 6 6 6 7 4 5 8 13 13 24 4 11 7 20 7 28 1 1 0 4 0 7-1 3-1 6-1 7 0 2 1 4 3 6 1 1 3 4 5 6 2 3 3 5 5 6 1 2 3 5 4 9 2 3 3 7 5 10 1 3 2 6 4 10 2 4 4 7 6 9 2 3 4 5 7 7 3 2 7 3 11 3 3 0 8 0 13-1l0-1c7 2 12 2 14 2l218 0c14 0 25-5 32-16 8-10 10-23 6-37l-79-259c-7-22-13-37-20-43-7-7-19-10-37-10l-248 0c-5 0-9-2-11-5-2-3-2-7 0-12 4-13 18-20 41-20l264 0c5 0 10 2 16 5 5 3 8 6 10 11l85 282c2 5 2 10 2 17 7-3 13-7 17-13z m-304 0c-1-3-1-5 0-7 1-1 3-2 6-2l174 0c2 0 4 1 7 2 2 2 4 4 5 7l6 18c0 3 0 5-1 7-1 1-3 2-6 2l-173 0c-3 0-5-1-8-2-2-2-4-4-4-7z m-24-73c-1-3-1-5 0-7 2-2 3-2 6-2l174 0c2 0 5 0 7 2 3 2 4 4 5 7l6 18c1 2 0 5-1 6-1 2-3 3-5 3l-174 0c-3 0-5-1-7-3-3-1-4-4-5-6z"},"click":"function(gd) { \n        // is this being viewed in RStudio?\n        if (location.search == '?viewer_pane=1') {\n          alert('To learn about plotly for collaboration, visit:\\n https://cpsievert.github.io/plotly_book/plot-ly-for-collaboration.html');\n        } else {\n          window.open('https://cpsievert.github.io/plotly_book/plot-ly-for-collaboration.html', '_blank');\n        }\n      }"}],"cloud":false},"source":"A","attrs":{"1d905ed24cbd":{"x":{},"y":{},"type":"scatter"}},"cur_data":"1d905ed24cbd","visdat":{"1d905ed24cbd":["function (y) ","x"]},"highlight":{"on":"plotly_click","persistent":false,"dynamic":false,"selectize":false,"opacityDim":0.2,"selected":{"opacity":1},"debounce":0},"base_url":"https://plot.ly"},"evals":["config.modeBarButtonsToAdd.0.click"],"jsHooks":[]}</script>
 </div>
 </div>
 <div id="row-2" class="section level2">
@@ -3109,24 +3110,34 @@ window.FlexDashboardComponents.push({
 </div>
 <div id="top-words" class="section level1">
 <h1>Top words</h1>
+<div id="wordcloud" class="section level3 no-title">
+<h3>Wordcloud</h3>
 <div class="knitr-options" data-fig-width="768" data-fig-height="768">
 
 </div>
 <p><img src="index_files/figure-html/unnamed-chunk-1-1.png" width="768" data-figure-id=fig4 /></p>
+</div>
+<div id="wordcloud-1" class="section level3 no-title mobile">
+<h3>Wordcloud</h3>
+<div class="knitr-options" data-fig-width="576" data-fig-height="460">
+
+</div>
+<p><img src="index_files/figure-html/unnamed-chunk-2-1.png" width="576" data-figure-id=fig5 /></p>
+</div>
 </div>
 <div id="top-hashtags" class="section level1">
 <h1>Top hashtags</h1>
 <div class="knitr-options" data-fig-width="768" data-fig-height="768">
 
 </div>
-<p><img src="index_files/figure-html/unnamed-chunk-2-1.png" width="768" data-figure-id=fig5 /></p>
+<p><img src="index_files/figure-html/unnamed-chunk-3-1.png" width="768" data-figure-id=fig6 /></p>
 </div>
 <div id="top-mentions" class="section level1">
 <h1>Top mentions</h1>
 <div class="knitr-options" data-fig-width="768" data-fig-height="768">
 
 </div>
-<p><img src="index_files/figure-html/unnamed-chunk-3-1.png" width="768" data-figure-id=fig6 /></p>
+<p><img src="index_files/figure-html/unnamed-chunk-4-1.png" width="768" data-figure-id=fig7 /></p>
 </div>
 
 </div>
